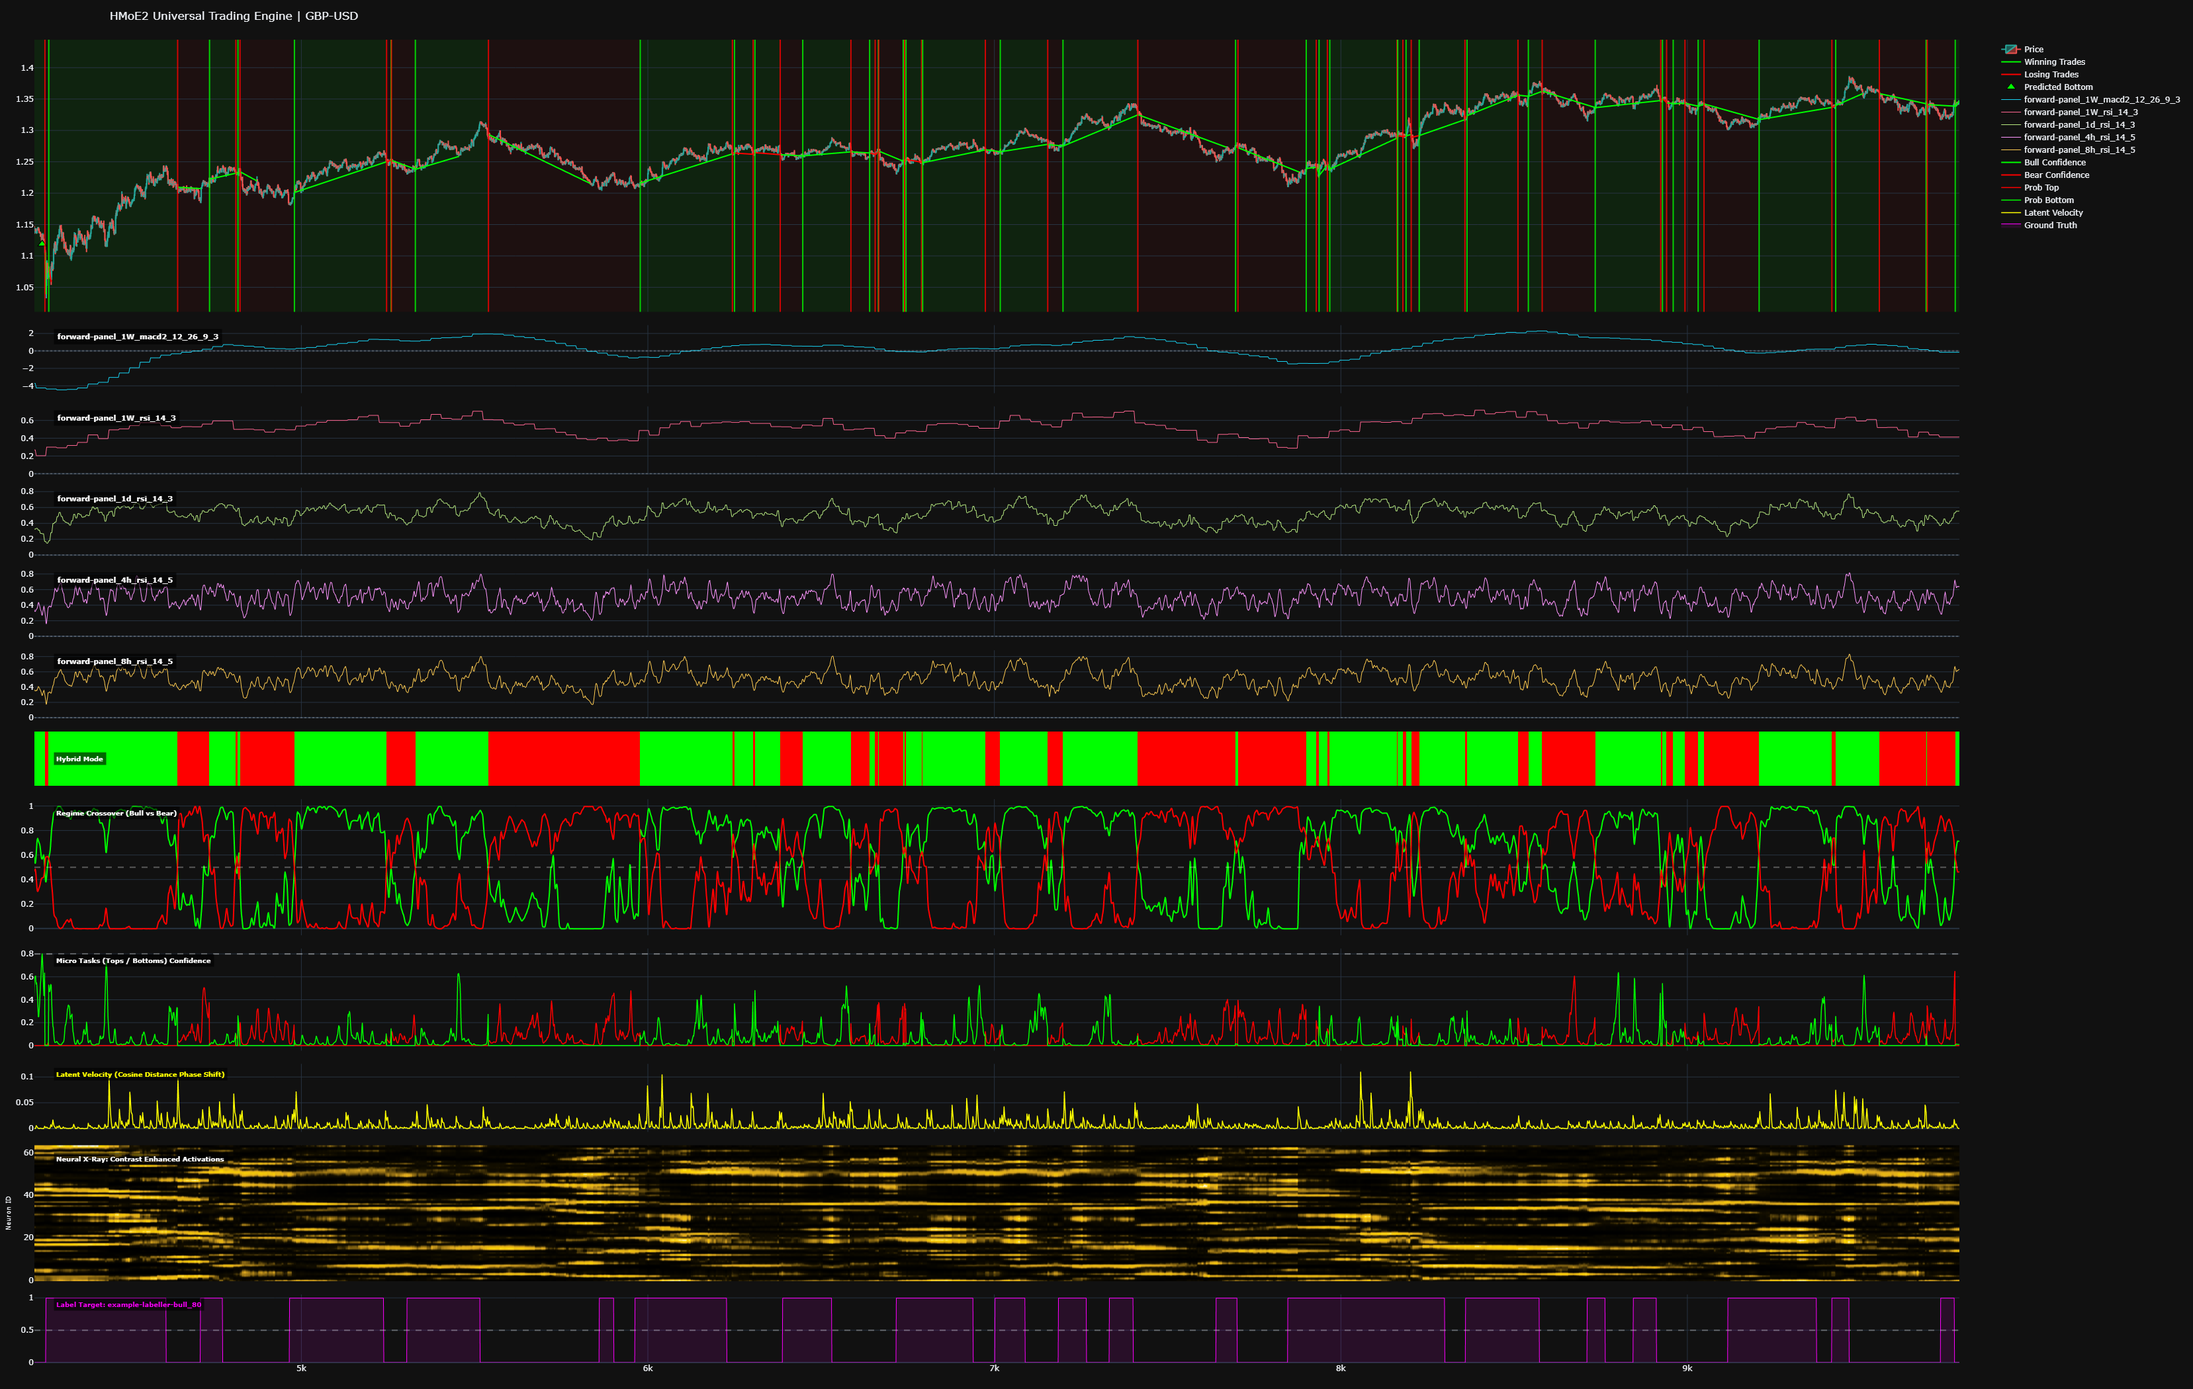
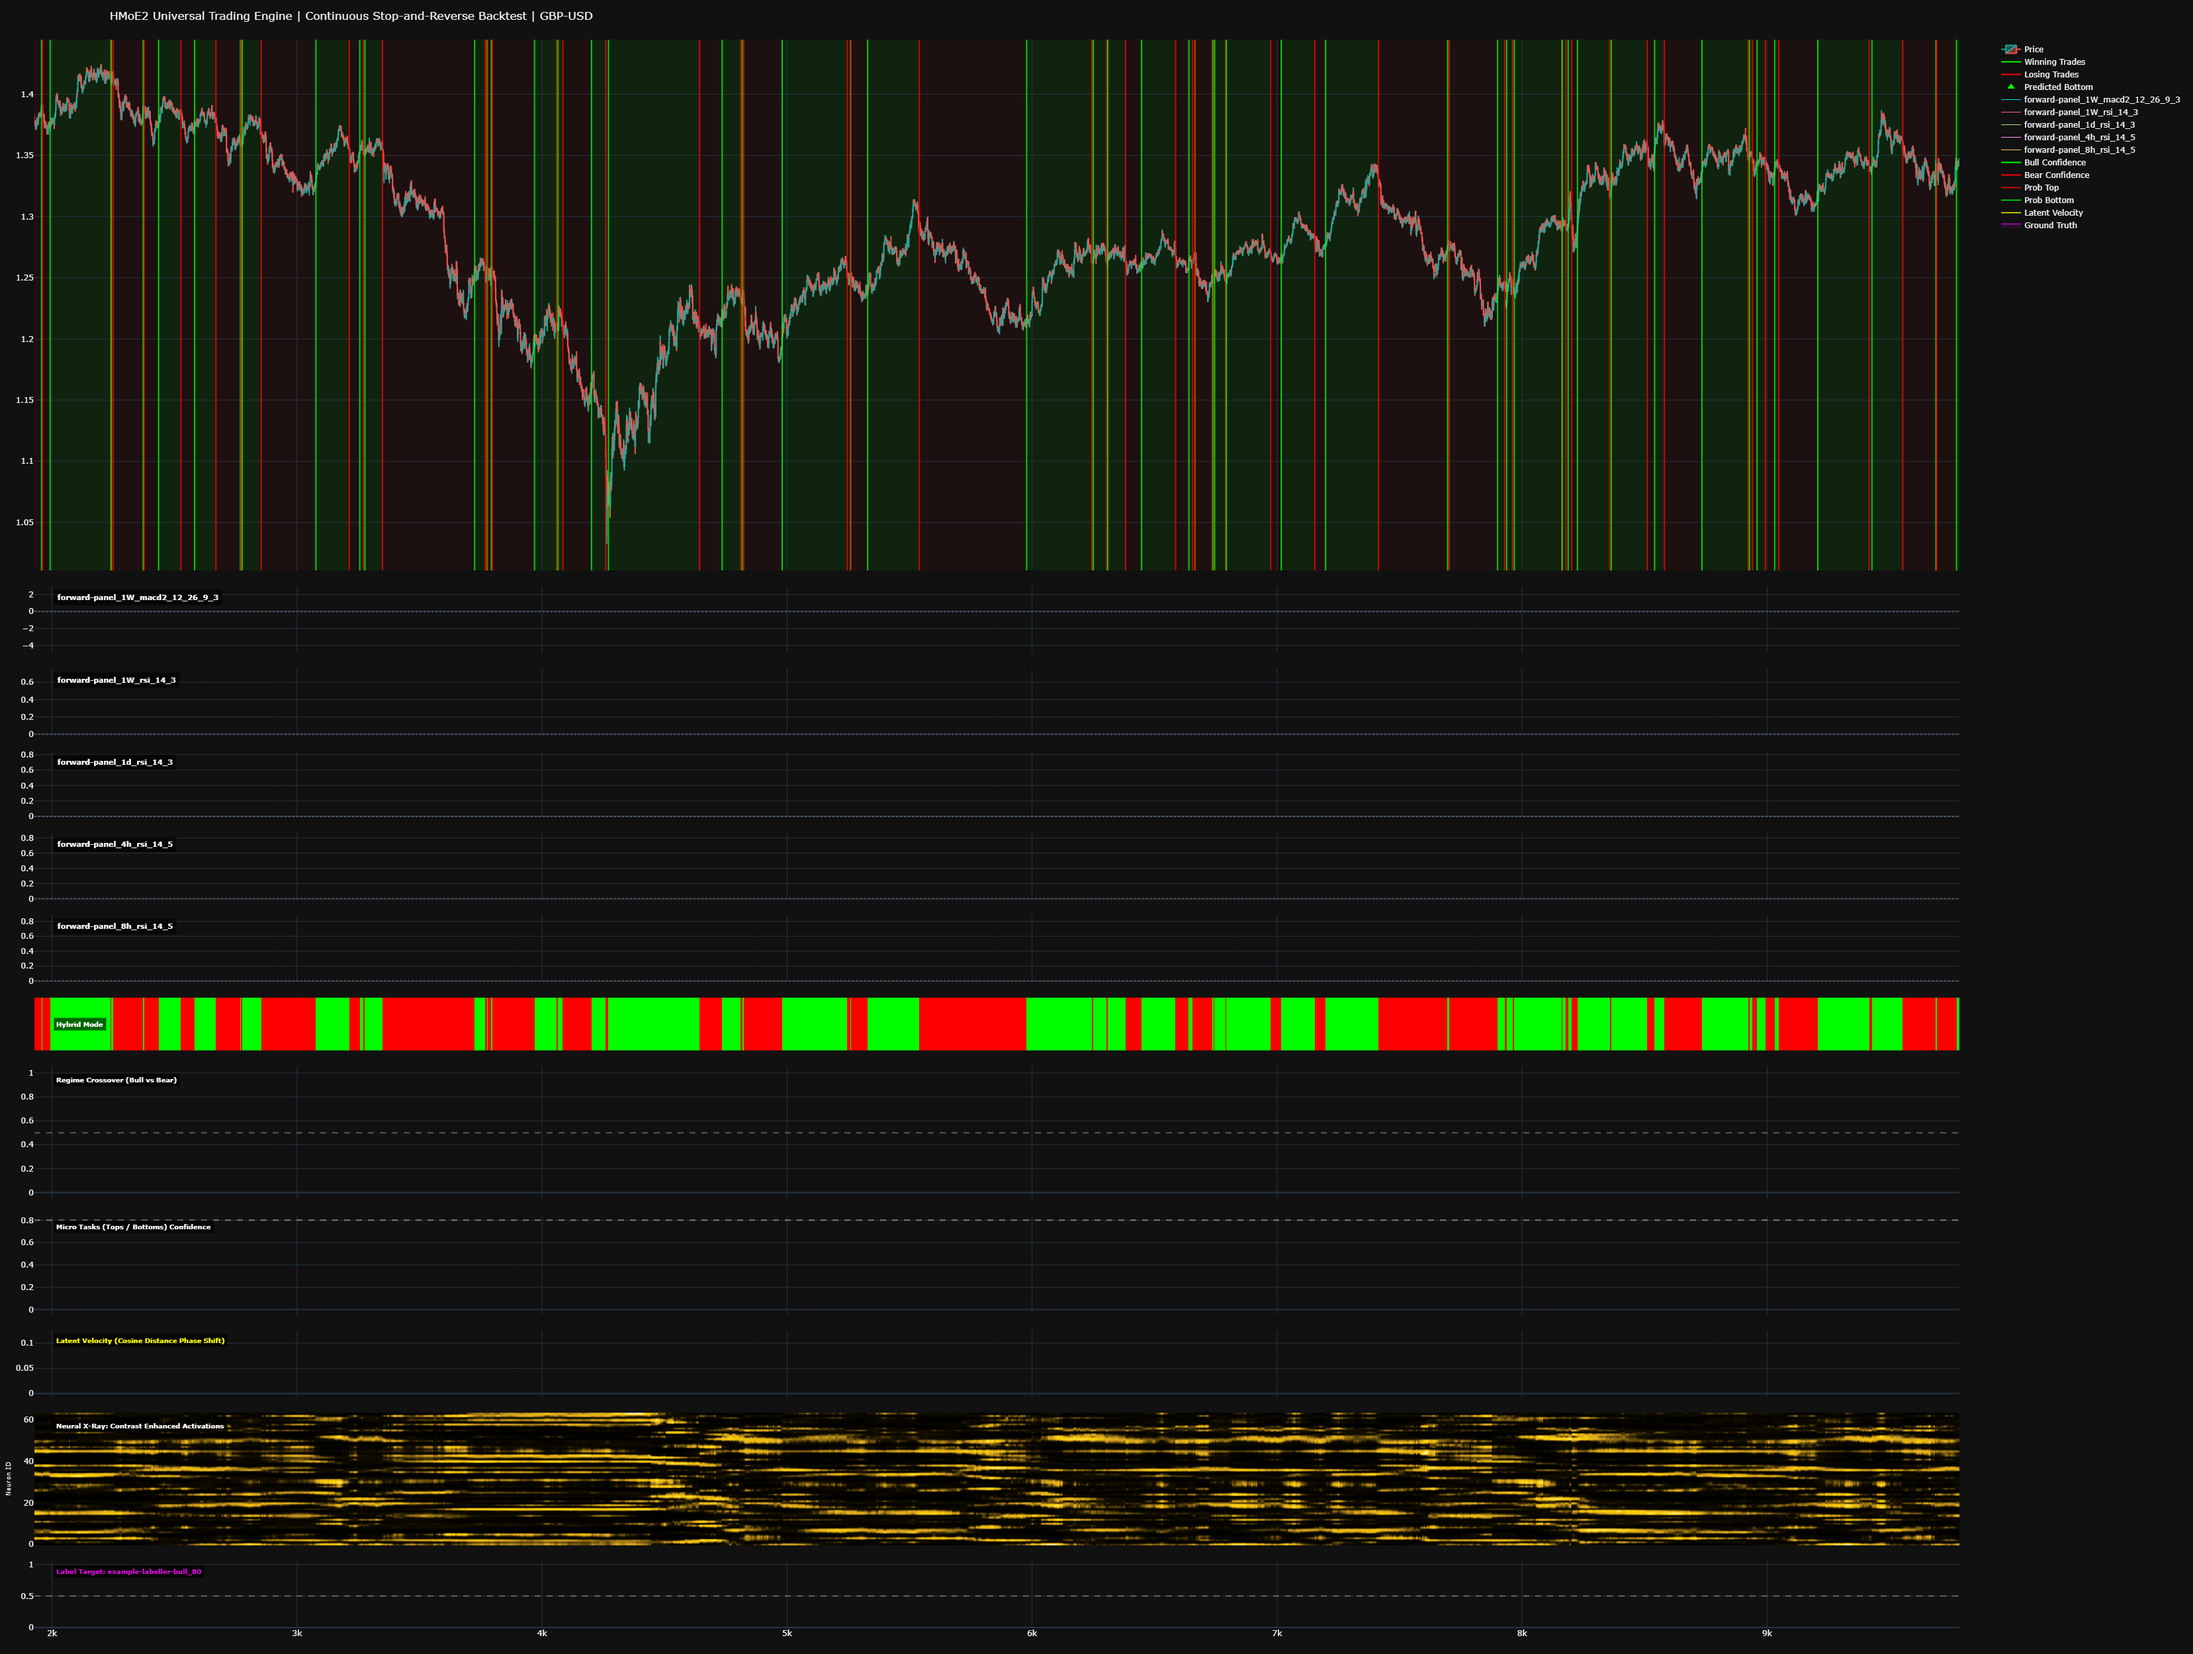
docs(story): final test results. what would happen if we would have the network dictate all trades. no manual SL or TP limits

Changed region(s): [[0.0, 0.0, 0.9946, 0.9905]]

diff --git a/docs/STORY.md b/docs/STORY.md
@@ -146,11 +146,38 @@ Flickering issue (I will solve this):
 
 The accidental reversal detector which works flawlessly on USD-JPY (very high WR) is being further explored, seeing if i can make the solution transition to different assets (it should be possible). General advice is to "play" with intentional scaling errors. You might end up with a pleasant surprise.
 
-Experiment, just let the position run until regime flip but do take 2/3R:
+Experiment, just let the position run until regime flip (Stop and Reverse):
 
 ![Example](../images/example-regime4.png)
 
-Green line are wins, red lines are losses.
+Green lines are wins, red lines are losses.
+
+Full period stats. 
+
+```bash
+=================================================================
+2026-04-10 16:51:32 | INFO    | Macro_Visualizer | DETAILED WALK-FORWARD REPORT (Continuous Stop-and-Reverse)
+2026-04-10 16:51:32 | INFO    | Macro_Visualizer | =================================================================
+2026-04-10 16:51:32 | INFO    | Macro_Visualizer | Total Trades     : 147
+2026-04-10 16:51:32 | INFO    | Macro_Visualizer | Win Rate         : 66.67%
+2026-04-10 16:51:32 | INFO    | Macro_Visualizer | Net PnL (R)      : 126.42 R
+2026-04-10 16:51:32 | INFO    | Macro_Visualizer | Profit Factor    : 8.28
+2026-04-10 16:51:32 | INFO    | Macro_Visualizer | Ann. Sharpe      : 2.65
+2026-04-10 16:51:32 | INFO    | Macro_Visualizer | -----------------------------------------------------------------
+2026-04-10 16:51:32 | INFO    | Macro_Visualizer | Average Win      : +1.47 R
+2026-04-10 16:51:32 | INFO    | Macro_Visualizer | Average Loss     : -0.35 R
+2026-04-10 16:51:32 | INFO    | Macro_Visualizer | Largest Win      : +11.96 R
+2026-04-10 16:51:32 | INFO    | Macro_Visualizer | Largest Loss     : -4.96 R
+2026-04-10 16:51:32 | INFO    | Macro_Visualizer | Max Drawdown     : 4.96 R
+2026-04-10 16:51:32 | INFO    | Macro_Visualizer | -----------------------------------------------------------------
+2026-04-10 16:51:32 | INFO    | Macro_Visualizer | Longs Executed   : 74
+2026-04-10 16:51:32 | INFO    | Macro_Visualizer | Shorts Executed  : 73
+2026-04-10 16:51:32 | INFO    | Macro_Visualizer | =================================================================
+```
+
+Remarkable but dangerous strategy. Max drawdown of 4.96 is not good. Need to get the distributions and add a hard stop for the Nth percentile.
+
+Interesting is that these trades are fully NN driven. No manual interventions. 
 
 ## Interesting
 
